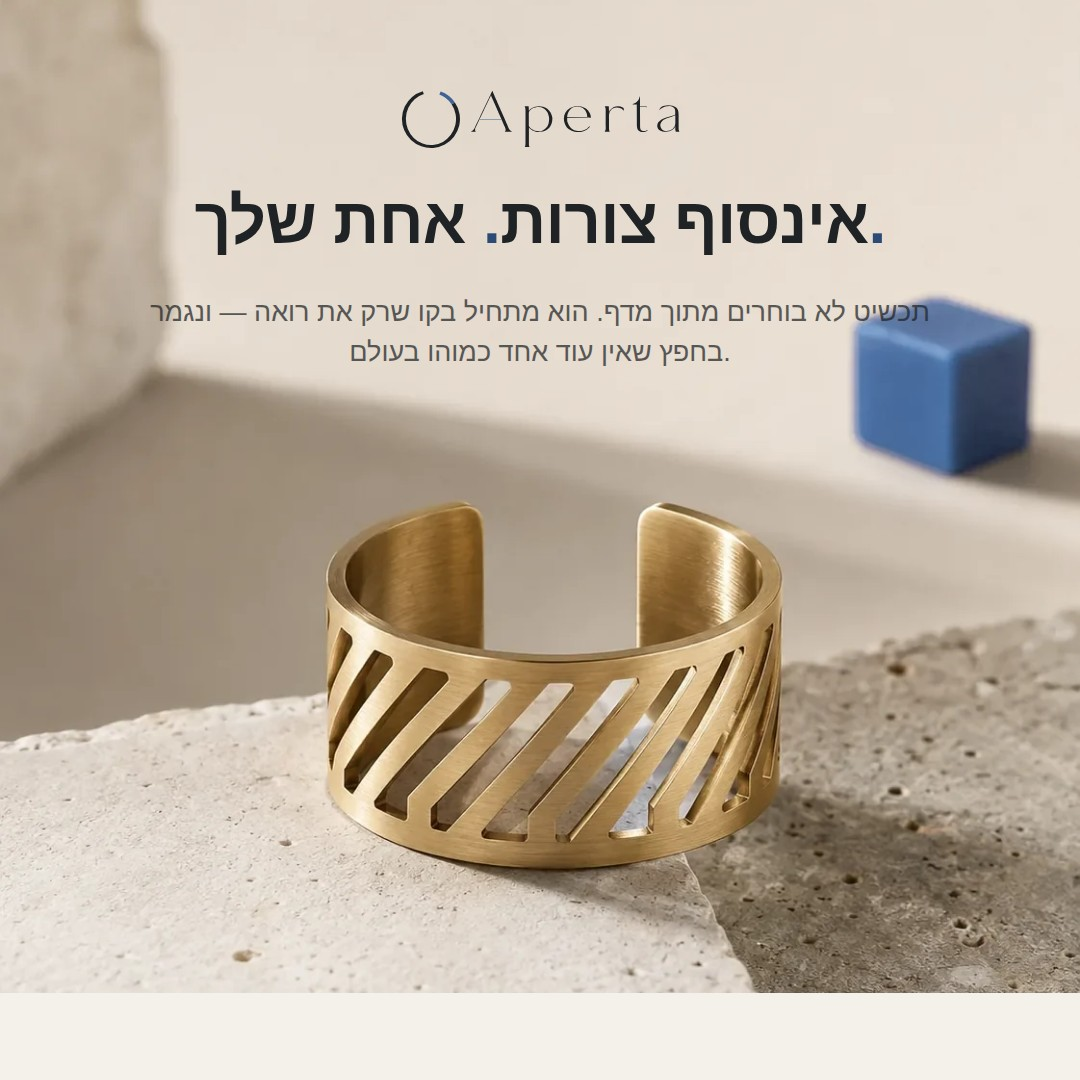
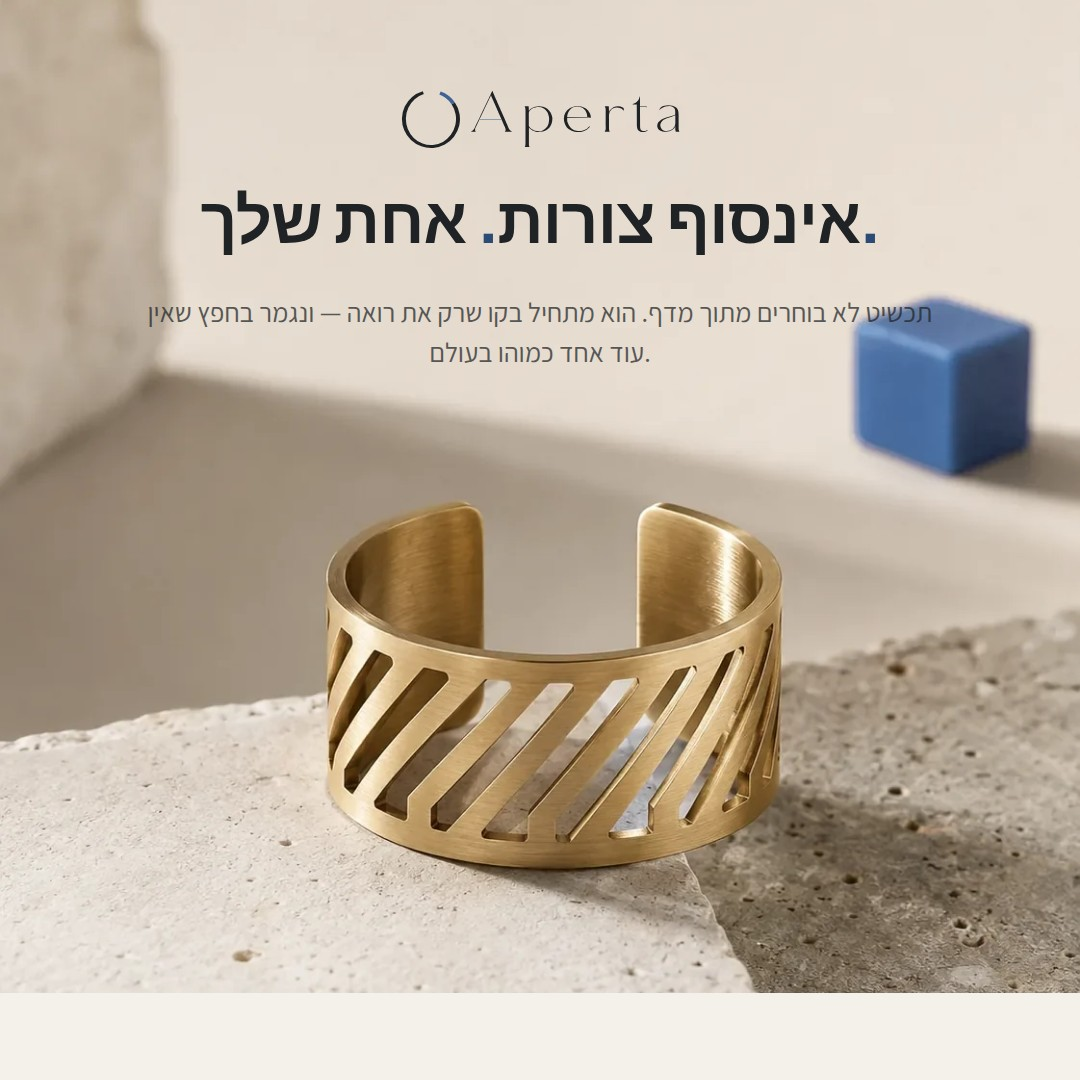
Fix Facebook cover: dropped second tagline line + self-host fonts
Two compounding issues, both traced back to font loading and a genuine
small-viewport rendering bug in this headless Chromium build:

- The tagline was one line wide enough to run under the busy photo panel,
  making the Hebrew text unreadable where it crossed onto the image. Split
  into two short lines that stay fully on the porcelain background.
- Below roughly 450px of viewport height, this Chromium build silently
  drops or garbles some text elements — reproduced with minimal repros
  across unrelated layouts, independent of DPI/content. The Facebook cover
  is a fixed 820x312, so it now renders into a taller offscreen canvas and
  gets cropped down to the real size afterward.
- Google Fonts is now self-hosted (docs/brand/social/fonts/*.woff2) rather
  than fetched live: font-display:swap races the headless screenshot
  against the network, and intermittent SSL failures to fonts.googleapis.com
  were silently dropping/malforming glyphs during earlier debugging — this
  is the same reasoning the site itself gives for self-hosting via
  next/font (src/app/layout.tsx).

diff --git a/docs/brand/social/build-social-assets.py b/docs/brand/social/build-social-assets.py
@@ -37,8 +37,38 @@ GRAPHITE = "#202326"
 LAPIS = "#3f6297"
 LAPIS_INK = "#2c4a76"
 
-FONTS_LINK = '''<link rel="preconnect" href="https://fonts.googleapis.com">
-<link href="https://fonts.googleapis.com/css2?family=Archivo:wght@400;500;600;700;800&family=Assistant:wght@300;400;500;600;700;800&display=swap" rel="stylesheet">'''
+# Fonts are self-hosted (docs/brand/social/fonts/*.woff2) rather than fetched
+# from fonts.googleapis.com at render time. A live fetch raced the headless
+# screenshot against the network: `font-display:swap` renders a fallback
+# immediately and swaps in the webfont whenever it lands, but the screenshot
+# doesn't wait for that swap — under any network hiccup (seen repeatedly here
+# as SSL handshake failures to Google Fonts) this silently dropped or
+# malformed Hebrew glyphs, which is what earlier looked like a Chromium flex
+# layout bug. Self-hosting removes the race entirely, matching why the site
+# itself self-hosts via next/font (see src/app/layout.tsx).
+FONTS_DIR = os.path.join(os.path.dirname(os.path.abspath(__file__)), "fonts")
+
+def font_url(name):
+    return "file://" + os.path.join(FONTS_DIR, name)
+
+FONTS_LINK = f'''<style>
+@font-face {{
+  font-family: 'Archivo';
+  font-weight: 700;
+  src: url('{font_url("archivo-700-latin.woff2")}') format('woff2');
+}}
+@font-face {{
+  font-family: 'Assistant';
+  font-weight: 300 800;
+  unicode-range: U+0590-05FF, U+FB1D-FB4F, U+200C-200F, U+20AA;
+  src: url('{font_url("assistant-hebrew.woff2")}') format('woff2');
+}}
+@font-face {{
+  font-family: 'Assistant';
+  font-weight: 300 800;
+  src: url('{font_url("assistant-latin.woff2")}') format('woff2');
+}}
+</style>'''
 
 BASE_CSS = f'''
 *{{margin:0;padding:0;box-sizing:border-box;}}
@@ -101,29 +131,31 @@ write("profile.html", profile, size=(1000, 1000))
 # ---------------------------------------------------------------- 2/3. Covers
 def cover_html(w, h, mark_h):
     panel_w = w * 0.6
-    # `.content` is centered via an explicit integer `top` rather than
-    # `justify-content:center`: that combination (absolute + shrink-to-fit flex
-    # column + justify-content:center) hits a headless-Chromium paint bug where
-    # the trailing punctuation span in the last flex item silently fails to
-    # render. Pre-computing the offset in Python sidesteps it entirely.
-    mark_size = h * 0.30 * 1.106
+    # The tagline is split into two short lines instead of one long line: a
+    # single line at this width runs into the photo panel (`panel_w` is wide
+    # here specifically so the whole bracelet shows, per the earlier crop fix),
+    # and Hebrew text sitting half on porcelain and half on a busy product photo
+    # reads as broken/illegible. Two lines comfortably clear the photo on both
+    # cover sizes.
     gap = h * 0.09
     tagline_font = max(h * 0.088, 32)
-    tagline_height = tagline_font * 1.25
-    content_top = round((h - (mark_size + gap + tagline_height)) / 2)
     return f'''<!doctype html><html><head><meta charset="utf-8">{FONTS_LINK}<style>{BASE_CSS}
 html,body{{width:{w}px;height:{h}px;background:var(--porcelain);position:relative;overflow:hidden;font-family:'Assistant',sans-serif;}}
 .photo{{position:absolute;top:0;bottom:0;right:0;width:{panel_w:.0f}px;background-image:url('{photo_url("bracelet-hero.webp")}');background-size:cover;background-position:60% 60%;}}
 .fade{{position:absolute;top:0;bottom:0;right:0;width:{panel_w:.0f}px;background:linear-gradient(to right, var(--porcelain) 0%, rgba(244,241,235,0) 45%);}}
-.content{{position:absolute;top:{content_top}px;left:{w*0.115:.0f}px;display:flex;flex-direction:column;gap:{gap:.0f}px;}}
-.tagline{{font-size:{max(h*0.088, 32):.0f}px;color:var(--graphite);font-weight:700;letter-spacing:-0.01em;}}
-.tagline .accent{{color:var(--lapis-ink);}}
+.content{{position:absolute;top:0;bottom:0;left:{w*0.115:.0f}px;display:flex;flex-direction:column;justify-content:center;gap:{gap:.0f}px;}}
+.tagline{{font-size:{tagline_font:.0f}px;color:var(--graphite);font-weight:700;letter-spacing:-0.01em;white-space:nowrap;}}
+.tagline-lines{{display:flex;flex-direction:column;gap:{tagline_font*0.15:.0f}px;}}
+.accent{{color:var(--lapis-ink);}}
 </style></head><body>
 <div class="photo"></div>
 <div class="fade"></div>
 <div class="content">
 {lockup(h*0.30)}
-<div class="tagline">אינסוף צורות<span class="accent">.</span> אחת שלך<span class="accent">.</span></div>
+<div class="tagline-lines">
+<div class="tagline">אינסוף צורות<span class="accent">.</span></div>
+<div class="tagline">אחת שלך<span class="accent">.</span></div>
+</div>
 </div>
 </body></html>'''
 
@@ -245,20 +277,34 @@ def find_chrome(explicit):
         "Could not find a Chromium/Chrome binary. Pass --chrome <path> or set CHROME_BIN."
     )
 
+# This headless Chromium build has a genuine rendering bug at short viewport
+# heights: some text elements silently fail to paint (or paint garbled/
+# overlapping) below roughly this height, independent of width, DPI, or page
+# content — reproduced and confirmed with minimal repros across several
+# unrelated layouts. Any page shorter than this renders into a taller window
+# instead, and the result is cropped back down to the real target size.
+MIN_SAFE_RENDER_HEIGHT = 450
+
 def render(chrome, html_name, w, h):
     src = os.path.join(BUILD_DIR, html_name)
     png_name = html_name.replace(".html", ".png")
     dst = os.path.join(BUILD_DIR, png_name)
+    render_h = max(h, MIN_SAFE_RENDER_HEIGHT)
     subprocess.run(
         [
             chrome, "--headless=new", "--no-sandbox", "--disable-gpu",
             "--hide-scrollbars", "--force-device-scale-factor=1",
-            f"--window-size={w},{h}", f"--screenshot={dst}", f"file://{src}",
+            f"--window-size={w},{render_h}", f"--screenshot={dst}", f"file://{src}",
         ],
         check=True,
         stdout=subprocess.DEVNULL,
         stderr=subprocess.DEVNULL,
     )
+    if render_h != h:
+        from PIL import Image
+
+        im = Image.open(dst)
+        im.crop((0, 0, w, h)).save(dst)
     return dst
 
 def export(png_path, stem, fmt):
